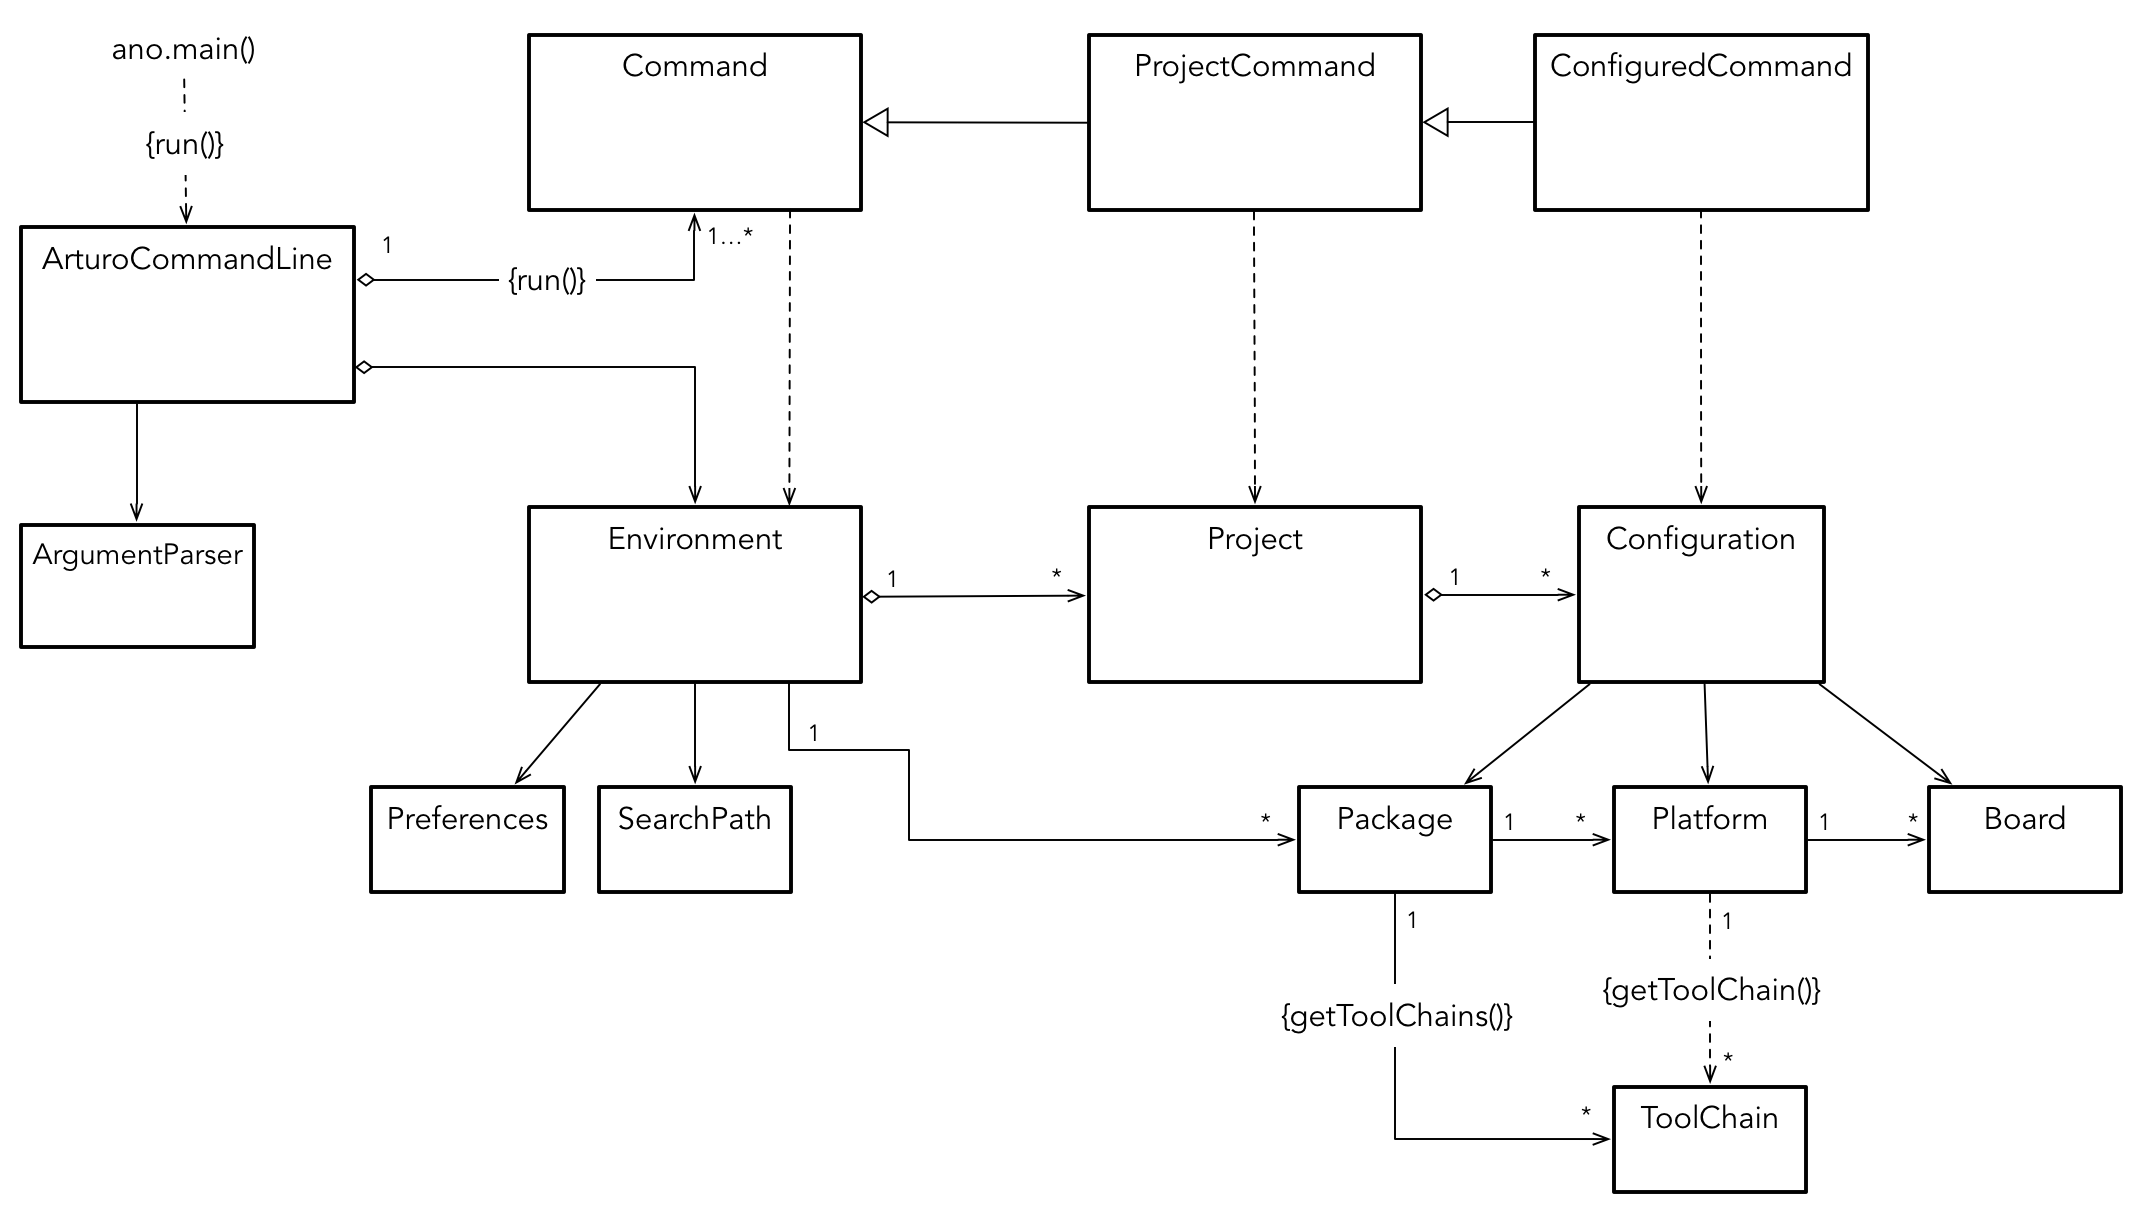
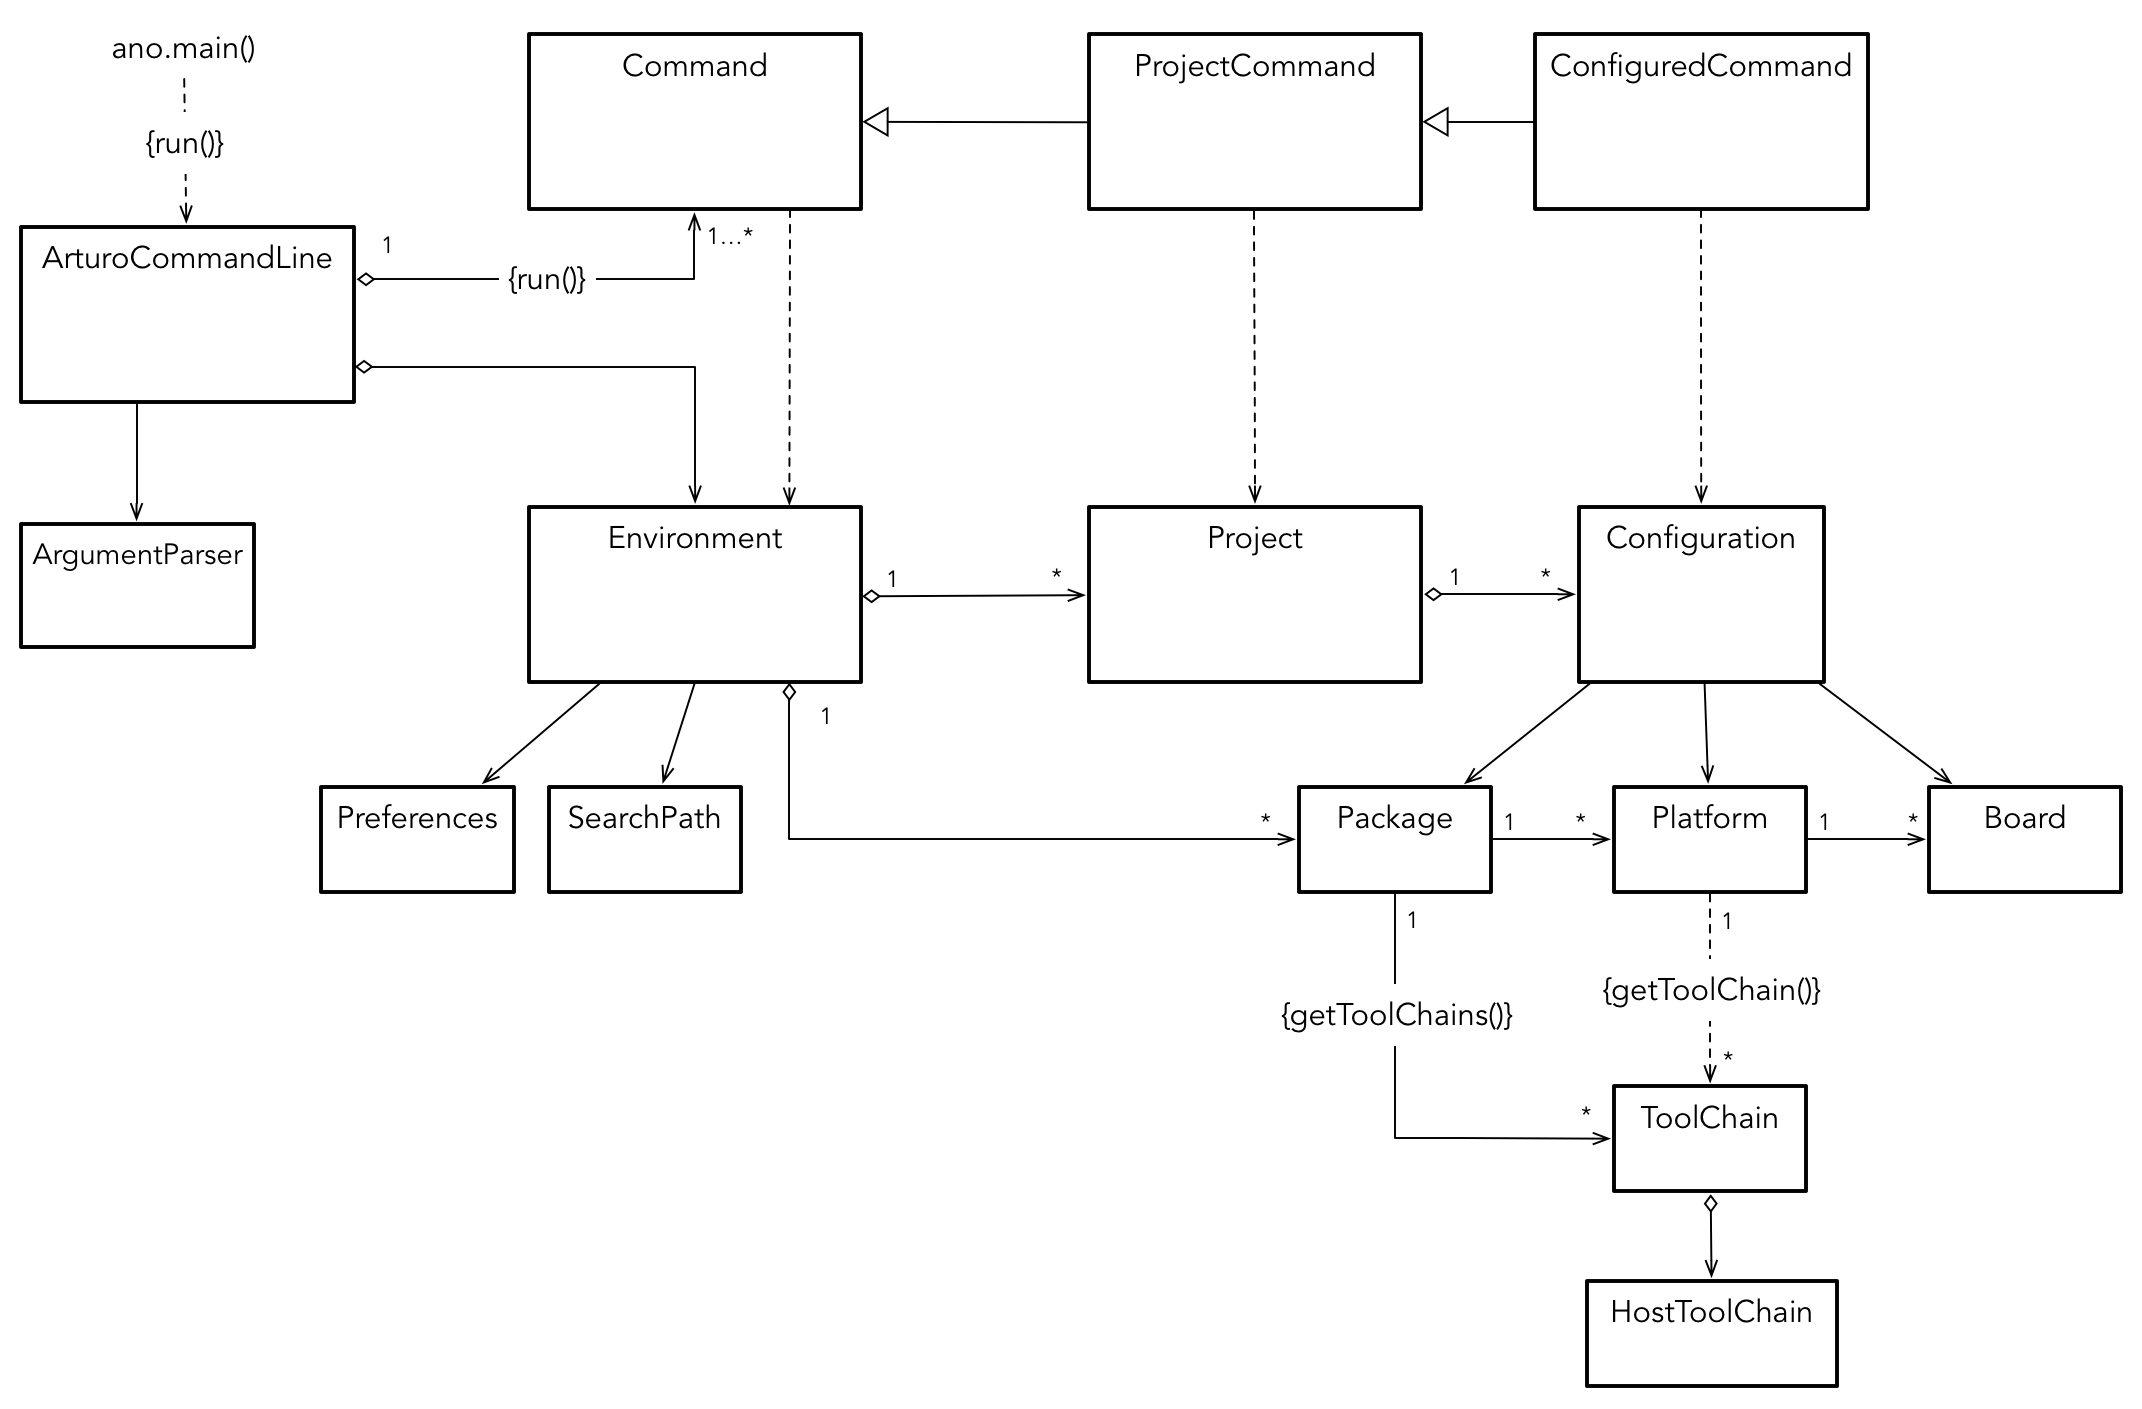
Adding HostToolChain abstraction
Now detects if the ToolChain described can be found
in the search path.

diff --git a/ano/Arturo2/tools.py b/ano/Arturo2/tools.py
@@ -4,21 +4,26 @@
 # |__|__|_| |_| |___|_| |___|
 # http://32bits.io/Arturo/
 #
+import os
 import platform
 import re
 
 from ano import i18n
+from ano.Arturo2 import SearchPath
 
 
 _ = i18n.language.ugettext
 
 # +---------------------------------------------------------------------------+
-# | System
+# | HostToolChain
 # +---------------------------------------------------------------------------+
-class System(object):
-    
+class HostToolChain(object):
+    '''
+    ToolChain parts that are specific to a given host environment.
+    '''
+
     def __init__(self, toolchain, systemMetadata, console):
-        super(System, self).__init__()
+        super(HostToolChain, self).__init__()
         self._host = systemMetadata['host']
         self._url = systemMetadata['url']
         self._toolchain = toolchain
@@ -29,7 +34,16 @@ class System(object):
     
     def getHost(self):
         return self._host
-    
+
+    def getPath(self):
+        packager = self._toolchain.getPackage().getName()
+        localpath = os.path.join(SearchPath.ARDUINO15_PACKAGES_PATH, 
+                                 packager, 
+                                 SearchPath.ARDUINO15_TOOLS_PATH, 
+                                 self._toolchain.getName(), 
+                                 self._toolchain.getVersion())
+        return self._toolchain.getPackage().getEnvironment().getSearchPath().findDir(localpath)
+        
     def getUrl(self):
         return self._url
 
@@ -76,7 +90,7 @@ class ToolChain(object):
         self._console = console
         self._hostSystem = None
         for system in toolChainMetadata['systems']:
-            self._systems[system['host']] = System(self, system, console) 
+            self._systems[system['host']] = system
         
     def getName(self):
         return self._name
@@ -90,7 +104,7 @@ class ToolChain(object):
     def getCurrentHostName(self):
         return platform.system().lower()
         
-    def getSystemForHost(self):
+    def getHostToolChain(self):
         if self._hostSystem == -1:
             return None
         elif self._hostSystem is not None:
@@ -102,9 +116,9 @@ class ToolChain(object):
             for machinePattern, compiledHostPatternsList in compiledHostPatterns.iteritems():
                 if machinePattern.match(machine):
                     for compiledHostPattern in compiledHostPatternsList:
-                        for systemKey in self._systems.iterkeys():
+                        for systemKey, systemMetadata in self._systems.iteritems():
                             if compiledHostPattern.match(systemKey):
-                                self._hostSystem = self._systems[systemKey]
+                                self._hostSystem = HostToolChain(self, systemMetadata, self._console)
                                 return self._hostSystem
         # mark as "not found" so we don't try to match it again.
         self._hostSystem = -1

diff --git a/ano/Arturo2/commands/query.py b/ano/Arturo2/commands/query.py
@@ -41,11 +41,15 @@ class List_tools(Command):
                 for name, toolchain in toolchains.iteritems():  # @UnusedVariable
                     console.printInfo(_("{0} from {1}, version {2}.".format(toolchain.getName(), package.getName(), toolchain.getVersion())))
                     console.shift()
-                    system = toolchain.getSystemForHost()
+                    system = toolchain.getHostToolChain()
                     if system:
-                        console.printInfo(_("{0} tools are available from {1}.".format(system.getHost(), system.getUrl())))
+                        localpath = system.getPath()
+                        if localpath is None:
+                            console.printInfo(_("{0} tools are available from {1}.".format(system.getHost(), system.getUrl())))
+                        else:
+                            console.printInfo(_("{0} tools are installed under {1}".format(system.getHost(), localpath)))
                     else:
-                        console.printInfo(_("No known system for host {0}.".format(toolchain.getCurrentHostName())))
+                        console.printInfo(_("No known tools for host {0}.".format(toolchain.getCurrentHostName())))
                     console.unshift()
                 console.unshift()
         finally:

diff --git a/ano/Arturo2/environment.py b/ano/Arturo2/environment.py
@@ -143,7 +143,6 @@ class Environment(object):
     All available configurations for the given project.
     '''
     
-    PACKAGES_PATH = "packages"
     PACKAGE_INDEX_NAMES = ['package_index.json']
     
     def __init__(self, console):
@@ -193,8 +192,8 @@ class Environment(object):
         
         packageMetadataPath = self.getSearchPath().findFirstFileOfNameOrThrow(Environment.PACKAGE_INDEX_NAMES, 'package index')
         
-        # the package folders are found under a folder Packages.PACKAGES_PATH next to the packages index file
-        self._packageRootPath = os.path.join(os.path.dirname(packageMetadataPath), Environment.PACKAGES_PATH)
+        # the package folders are found under a folder ARDUINO15_PACKAGES_PATH next to the packages index file
+        self._packageRootPath = os.path.join(os.path.dirname(packageMetadataPath), SearchPath.ARDUINO15_PACKAGES_PATH)
         
         with open(packageMetadataPath, 'r') as packageMetadataFile:
             packageMetadataCollection = json.load(packageMetadataFile)

diff --git a/ano/Arturo2/__init__.py b/ano/Arturo2/__init__.py
@@ -62,6 +62,10 @@ class NamedOrderedDict(OrderedDict):
 # +---------------------------------------------------------------------------+
 class SearchPath(object):
     
+    ARDUINO15_PACKAGES_PATH = "packages"
+    ARDUINO15_TOOLS_PATH = "tools"
+    ARDUINO15_HARDWARE_PATH = "hardware"
+    
     def __init__(self):
         super(SearchPath, self).__init__()
         self._envpath = [os.path.expanduser("~/Library/Arduino15")]
@@ -88,6 +92,19 @@ class SearchPath(object):
 
         return fqfn
     
+    def findDir(self, relativepath):
+        if relativepath is None:
+            raise ValueError("relativepath argument is required.")
+
+        fqfn = None
+        for place in self._envpath:
+            possibleFqfn = os.path.join(place, relativepath)
+            if os.path.isdir(possibleFqfn):
+                fqfn = possibleFqfn
+                break
+
+        return fqfn
+        
     def __str__(self):
         return str(self._envpath)
     

diff --git a/ano/Arturo2/vendors.py b/ano/Arturo2/vendors.py
@@ -7,6 +7,7 @@
 import os
 
 from ano import i18n
+from ano.Arturo2 import SearchPath
 from ano.Arturo2.hardware import Platform
 from ano.Arturo2.tools import ToolChain
 
@@ -16,9 +17,6 @@ _ = i18n.language.ugettext
 # | Package
 # +---------------------------------------------------------------------------+
 class Package(object):
-    
-    HARDWARE_DIR = "hardware"
-    TOOLS_DIR = "tools"
     
     @classmethod
     def makeToolChainMultikey(cls, name, version):
@@ -36,7 +34,7 @@ class Package(object):
         if not os.path.isdir(self._packagePath):
             raise Exception("%s was not found" % (self._packagePath))
 
-        self._hardwareDir = os.path.join(self._packagePath, Package.HARDWARE_DIR)
+        self._hardwareDir = os.path.join(self._packagePath, SearchPath.ARDUINO15_HARDWARE_PATH)
         self._platformIndex = None
         
     def getName(self):
